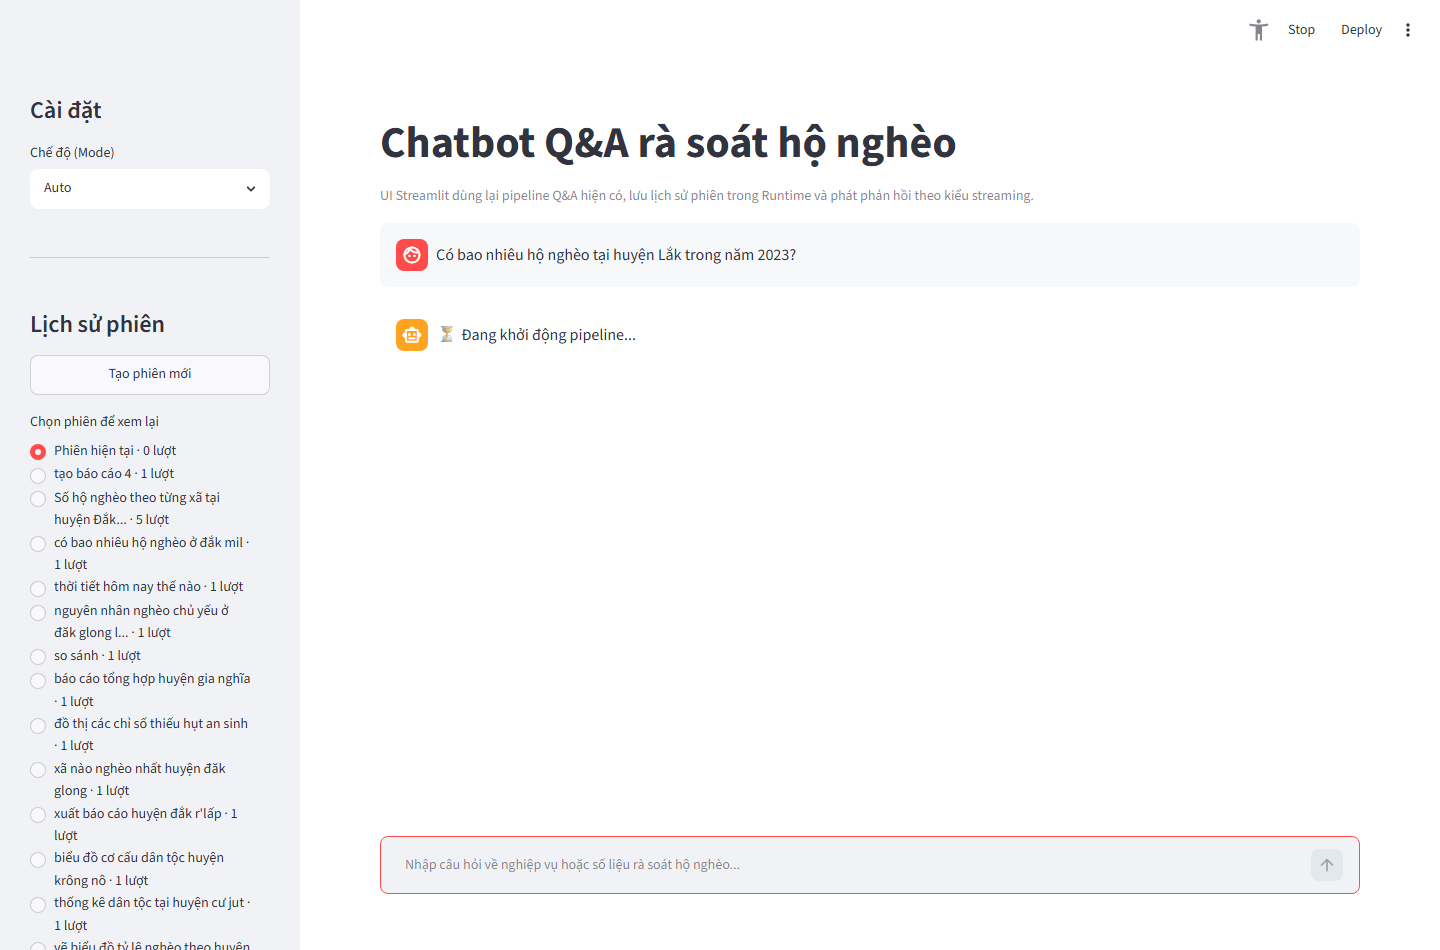
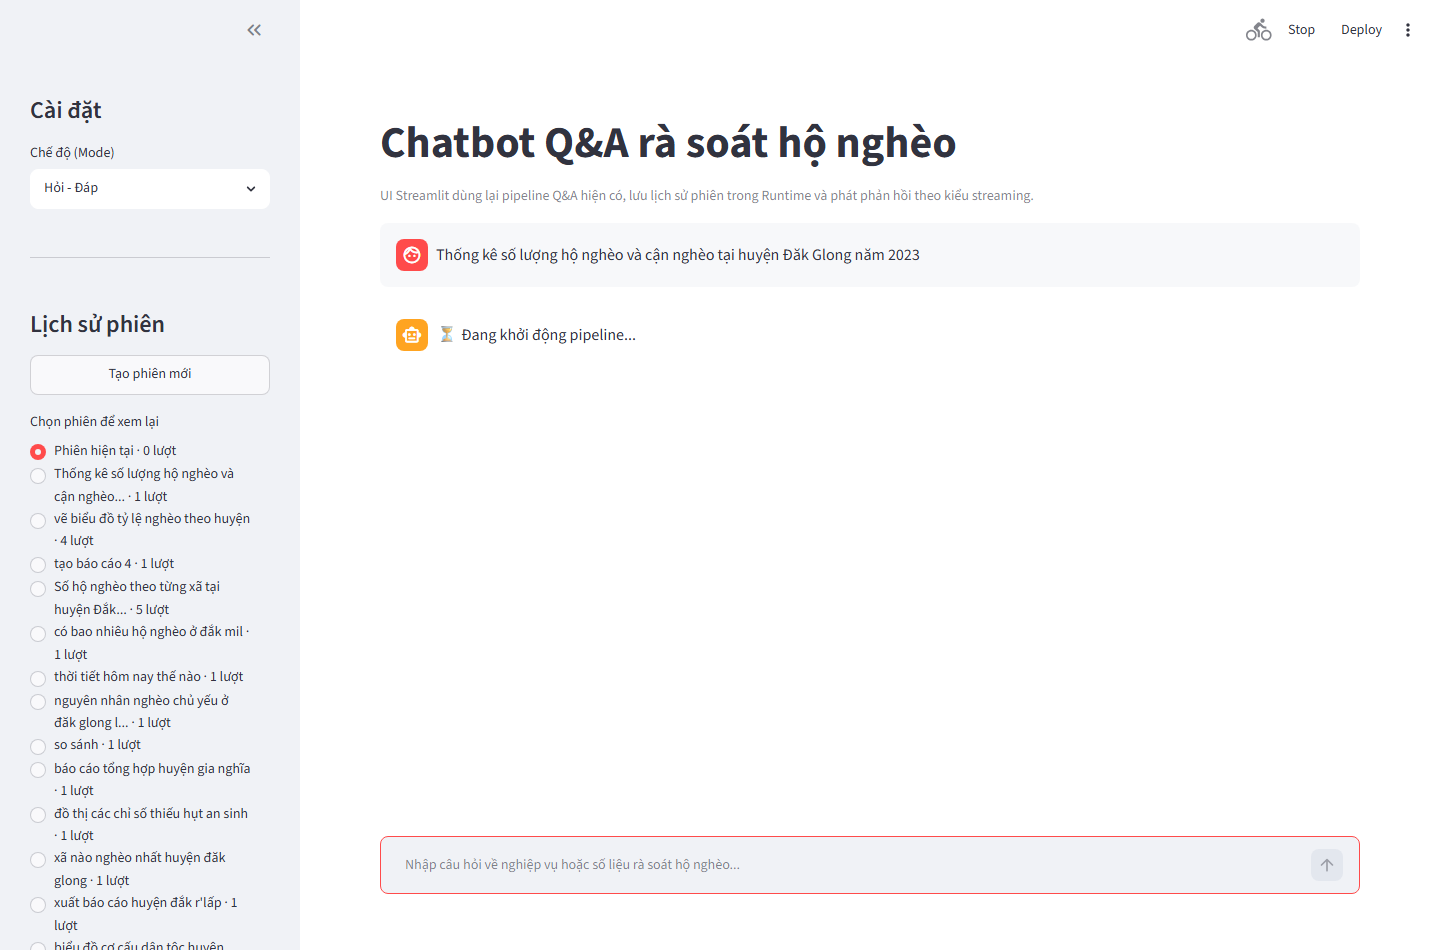
fix(ui): resolve screenshot capture errors across all modes

Changed region(s): [[0.0312, 0.4884, 0.1875, 1.0], [0.3125, 0.2442, 0.625, 0.2747], [0.0312, 0.1832, 0.0625, 0.2137]]

diff --git a/scripts/capture_ui_screenshots.py b/scripts/capture_ui_screenshots.py
@@ -1,23 +1,78 @@
+import sys
+if sys.stdout.encoding != 'utf-8':
+    try:
+        sys.stdout.reconfigure(encoding='utf-8')
+    except Exception:
+        pass
 import asyncio
 import os
-import sys
 import subprocess
 import time
+import urllib.request
 from playwright.async_api import async_playwright
+
+async def select_mode(page, mode_name: str):
+    """Helper để chuyển chế độ (Mode) trong Streamlit Sidebar Selectbox."""
+    print(f"Switching to mode: '{mode_name}'...")
+    try:
+        sidebar = page.locator('[data-testid="stSidebar"]')
+        selectbox = sidebar.locator('div[data-baseweb="select"]').first
+        await selectbox.click()
+        await page.wait_for_timeout(1000)
+        
+        option = page.locator(f'li[role="option"]:has-text("{mode_name}")').first
+        if await option.count() > 0:
+            await option.click()
+            print(f"Successfully clicked option '{mode_name}'. Waiting 4s for rerun...")
+            await page.wait_for_timeout(4000)
+        else:
+            print(f"Option '{mode_name}' not found in dropdown listbox! Pressing Escape...")
+            await page.keyboard.press("Escape")
+    except Exception as e:
+        print(f"Error selecting mode '{mode_name}': {e}")
 
 async def capture_screenshots():
     os.makedirs("docs/images", exist_ok=True)
+    os.makedirs("scratch", exist_ok=True)
     
     print("Starting Streamlit server on port 8502 in background...")
+    venv_python = os.path.join(os.getcwd(), "venv", "Scripts", "python.exe")
+    python_cmd = venv_python if os.path.exists(venv_python) else sys.executable
+    print("Using Python executable for Streamlit:", python_cmd)
+    
+    log_file = open("scratch/streamlit_server.log", "w", encoding="utf-8")
     server_process = subprocess.Popen(
-        [sys.executable, "-m", "streamlit", "run", "app/streamlit_chatbot.py", "--server.port", "8502", "--server.headless", "true"],
-        stdout=subprocess.PIPE,
-        stderr=subprocess.PIPE
+        [python_cmd, "-m", "streamlit", "run", "app/streamlit_chatbot.py", "--server.port", "8502", "--server.headless", "true"],
+        stdout=log_file,
+        stderr=subprocess.STDOUT
     )
     
     try:
-        print("Waiting 15 seconds for Streamlit process to warm up...")
-        time.sleep(15)
+        print("Polling http://localhost:8502 until Streamlit server is responsive (max 60s)...")
+        server_ready = False
+        for i in range(60):
+            if server_process.poll() is not None:
+                print(f"Streamlit process terminated unexpectedly with code {server_process.returncode}!")
+                log_file.close()
+                if os.path.exists("scratch/streamlit_server.log"):
+                    with open("scratch/streamlit_server.log", "r", encoding="utf-8", errors="replace") as f:
+                        print("=== Streamlit Log Output ===")
+                        print(f.read())
+                return
+            try:
+                urllib.request.urlopen("http://localhost:8502", timeout=2)
+                server_ready = True
+                print(f"Streamlit server responded after {i+1} seconds!")
+                break
+            except Exception:
+                time.sleep(1)
+                
+        if not server_ready:
+            print("Streamlit server failed to start within 60s!")
+            return
+            
+        print("Waiting another 5 seconds for complete Streamlit initialization...")
+        time.sleep(5)
         
         async with async_playwright() as p:
             print("Launching Chromium headless...")
@@ -43,12 +98,13 @@ async def capture_screenshots():
             print("System fully loaded! Chờ thêm 3s để giao diện ổn định...")
             await page.wait_for_timeout(3000)
             
-            # 1. Gửi câu hỏi mẫu trong chế độ Hỏi - Đáp
+            # 1. Chế độ Hỏi - Đáp (Q&A Mode)
+            await select_mode(page, "Hỏi - Đáp")
             print("Submitting sample Q&A query...")
             try:
                 chat_input = page.locator('textarea[data-testid="stChatInputTextArea"]')
                 if await chat_input.count() > 0:
-                    await chat_input.fill("Có bao nhiêu hộ nghèo tại huyện Lắk trong năm 2023?")
+                    await chat_input.fill("Thống kê số lượng hộ nghèo và cận nghèo tại huyện Đăk Glong năm 2023")
                     await page.keyboard.press("Enter")
                     print("Waiting 20 seconds for Q&A result to stream and render completely...")
                     await page.wait_for_timeout(20000)
@@ -58,22 +114,13 @@ async def capture_screenshots():
             print("Taking ui_overview.png screenshot...")
             await page.screenshot(path="docs/images/ui_overview.png", full_page=True)
             
-            # 2. Chuyển sang chế độ Vẽ biểu đồ
-            print("Switching to Chart Mode ('Vẽ biểu đồ')...")
-            try:
-                sidebar = page.locator('[data-testid="stSidebar"]')
-                if await sidebar.count() > 0:
-                    await sidebar.get_by_text("Vẽ biểu đồ").first.click()
-                    print("Waiting 5 seconds for mode switch...")
-                    await page.wait_for_timeout(5000)
-            except Exception as e:
-                print(f"Error switching to Chart Mode: {e}")
-
+            # 2. Chế độ Vẽ biểu đồ (Chart Mode)
+            await select_mode(page, "Biểu đồ")
             print("Submitting Chart prompt...")
             try:
                 chat_input = page.locator('textarea[data-testid="stChatInputTextArea"]')
                 if await chat_input.count() > 0:
-                    await chat_input.fill("Vẽ biểu đồ cột so sánh số lượng hộ nghèo và cận nghèo tại huyện Lắk năm 2023")
+                    await chat_input.fill("Vẽ biểu đồ cột so sánh số lượng hộ nghèo và cận nghèo tại huyện Đăk Glong năm 2023")
                     await page.keyboard.press("Enter")
                     print("Waiting 25 seconds for Plotly chart to generate and render...")
                     await page.wait_for_timeout(25000)
@@ -83,22 +130,13 @@ async def capture_screenshots():
             print("Taking ui_chart_mode.png screenshot...")
             await page.screenshot(path="docs/images/ui_chart_mode.png", full_page=True)
 
-            # 3. Chuyển sang chế độ Báo cáo tổng hợp
-            print("Switching to Report Mode ('Báo cáo tổng hợp')...")
-            try:
-                sidebar = page.locator('[data-testid="stSidebar"]')
-                if await sidebar.count() > 0:
-                    await sidebar.get_by_text("Báo cáo tổng hợp").first.click()
-                    print("Waiting 5 seconds for mode switch...")
-                    await page.wait_for_timeout(5000)
-            except Exception as e:
-                print(f"Error switching to Report Mode: {e}")
-
+            # 3. Chế độ Báo cáo tổng hợp (Report Mode)
+            await select_mode(page, "Báo Cáo")
             print("Submitting Report prompt...")
             try:
                 chat_input = page.locator('textarea[data-testid="stChatInputTextArea"]')
                 if await chat_input.count() > 0:
-                    await chat_input.fill("Tạo báo cáo tổng hợp thực trạng hộ nghèo tại huyện Lắk năm 2023")
+                    await chat_input.fill("Tạo báo cáo tổng hợp thực trạng hộ nghèo tại huyện Đăk Glong năm 2023")
                     await page.keyboard.press("Enter")
                     print("Waiting 25 seconds for Comprehensive Report to render...")
                     await page.wait_for_timeout(25000)
@@ -113,8 +151,10 @@ async def capture_screenshots():
             
     finally:
         print("Terminating Streamlit server process...")
-        server_process.terminate()
-        server_process.wait()
+        if server_process.poll() is None:
+            server_process.terminate()
+            server_process.wait()
+        log_file.close()
 
 if __name__ == "__main__":
     asyncio.run(capture_screenshots())